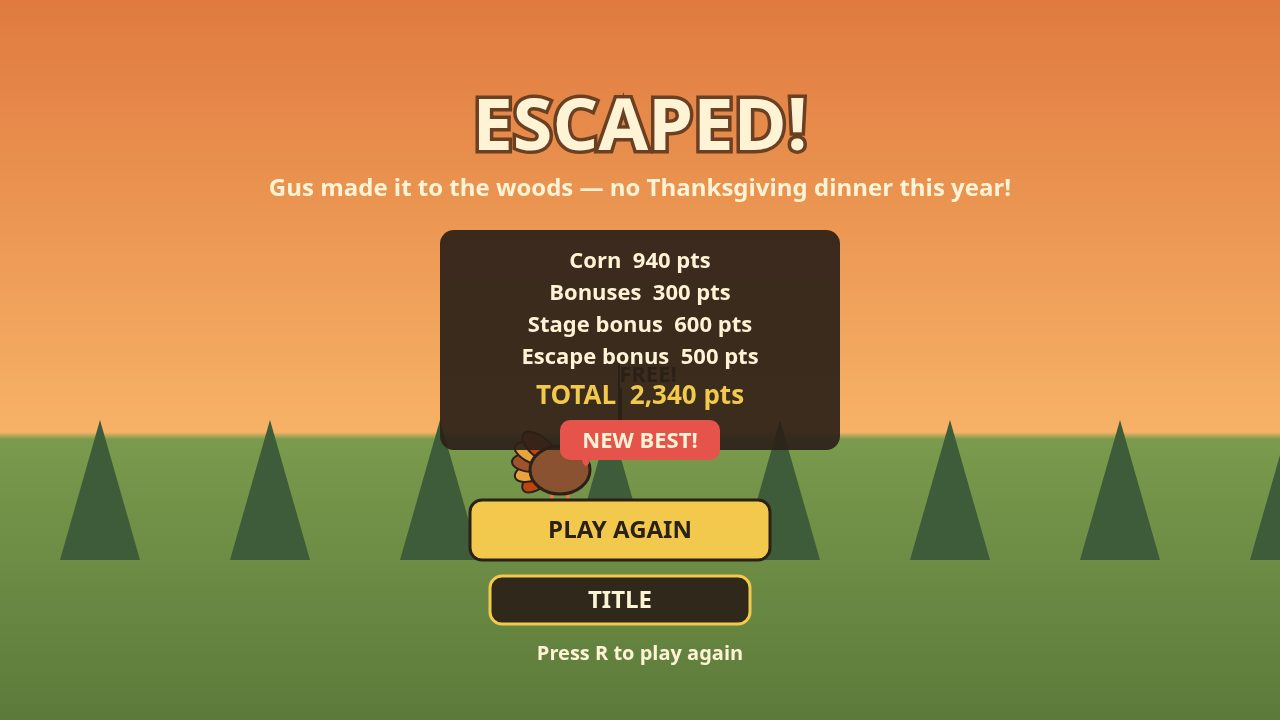
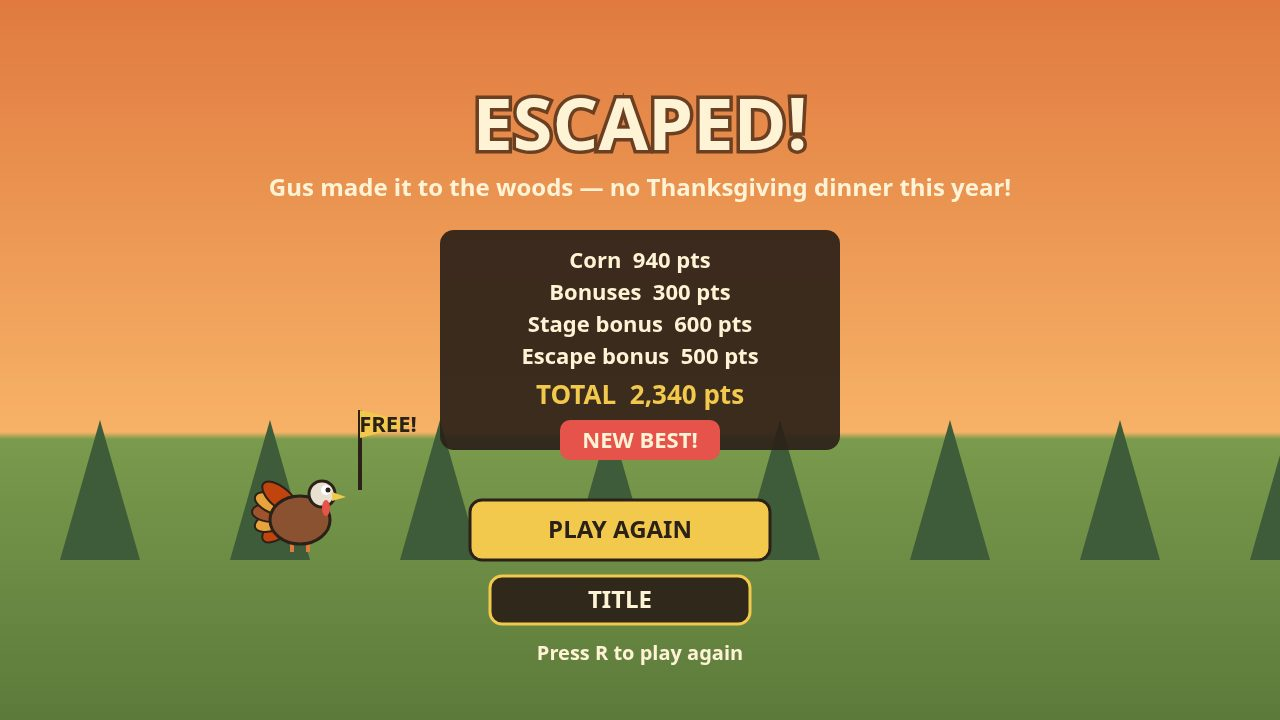
Fix D1: move Gus + FREE! flag clear of the end-screen score panel

Changed region(s): [[0.1875, 0.6417, 0.2812, 0.7639], [0.375, 0.6111, 0.4688, 0.7028], [0.2812, 0.5806, 0.3438, 0.6111]]

diff --git a/game/src/render.js b/game/src/render.js
@@ -657,14 +657,14 @@ export function createRenderer(canvas) {
       ctx.fillRect(0, 560, FIELD.W, 160);
     }
     if (won) {
-      const gus = { x: 560, y: 470, faceX: 1, faceY: 0, hopT: 0, hopCd: 0, sprinting: false, hidden: false, hideSpot: null, hearts: 3, invulnT: 0, bob: w.time * 3, moving: false };
+      const gus = { x: 300, y: 520, faceX: 1, faceY: 0, hopT: 0, hopCd: 0, sprinting: false, hidden: false, hideSpot: null, hearts: 3, invulnT: 0, bob: w.time * 3, moving: false };
       drawTurkeyFigure(gus, w.time);
       ctx.strokeStyle = PALETTE.panel;
       ctx.lineWidth = 4;
-      ctx.beginPath(); ctx.moveTo(620, 440); ctx.lineTo(620, 360); ctx.stroke();
+      ctx.beginPath(); ctx.moveTo(360, 490); ctx.lineTo(360, 410); ctx.stroke();
       ctx.fillStyle = PALETTE.gold;
-      ctx.beginPath(); ctx.moveTo(620, 360); ctx.lineTo(676, 374); ctx.lineTo(620, 388); ctx.closePath(); ctx.fill();
-      text('FREE!', 648, 382, 22, PALETTE.panel, 'center');
+      ctx.beginPath(); ctx.moveTo(360, 410); ctx.lineTo(416, 424); ctx.lineTo(360, 438); ctx.closePath(); ctx.fill();
+      text('FREE!', 388, 432, 22, PALETTE.panel, 'center');
       outlineText('ESCAPED!', FIELD.W / 2, 150, 72, PALETTE.cream, '#6B3F22', 'center');
       text('Gus made it to the woods — no Thanksgiving dinner this year!', FIELD.W / 2, 196, 24, PALETTE.cream, 'center');
       panel(440, 230, 400, 220, 0.92);
